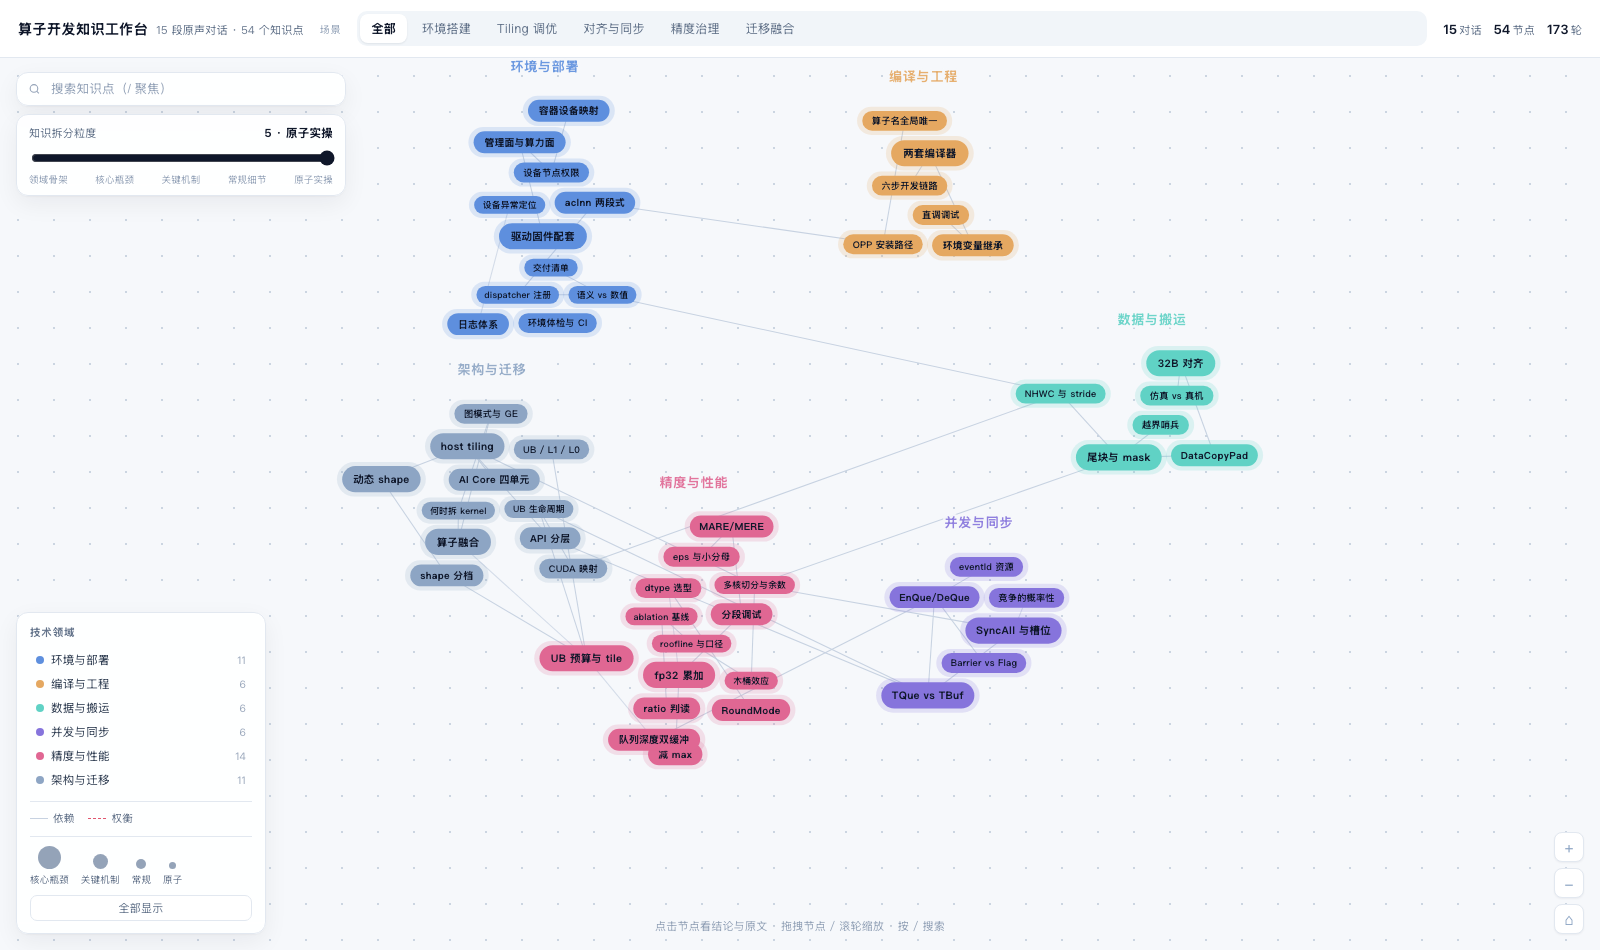
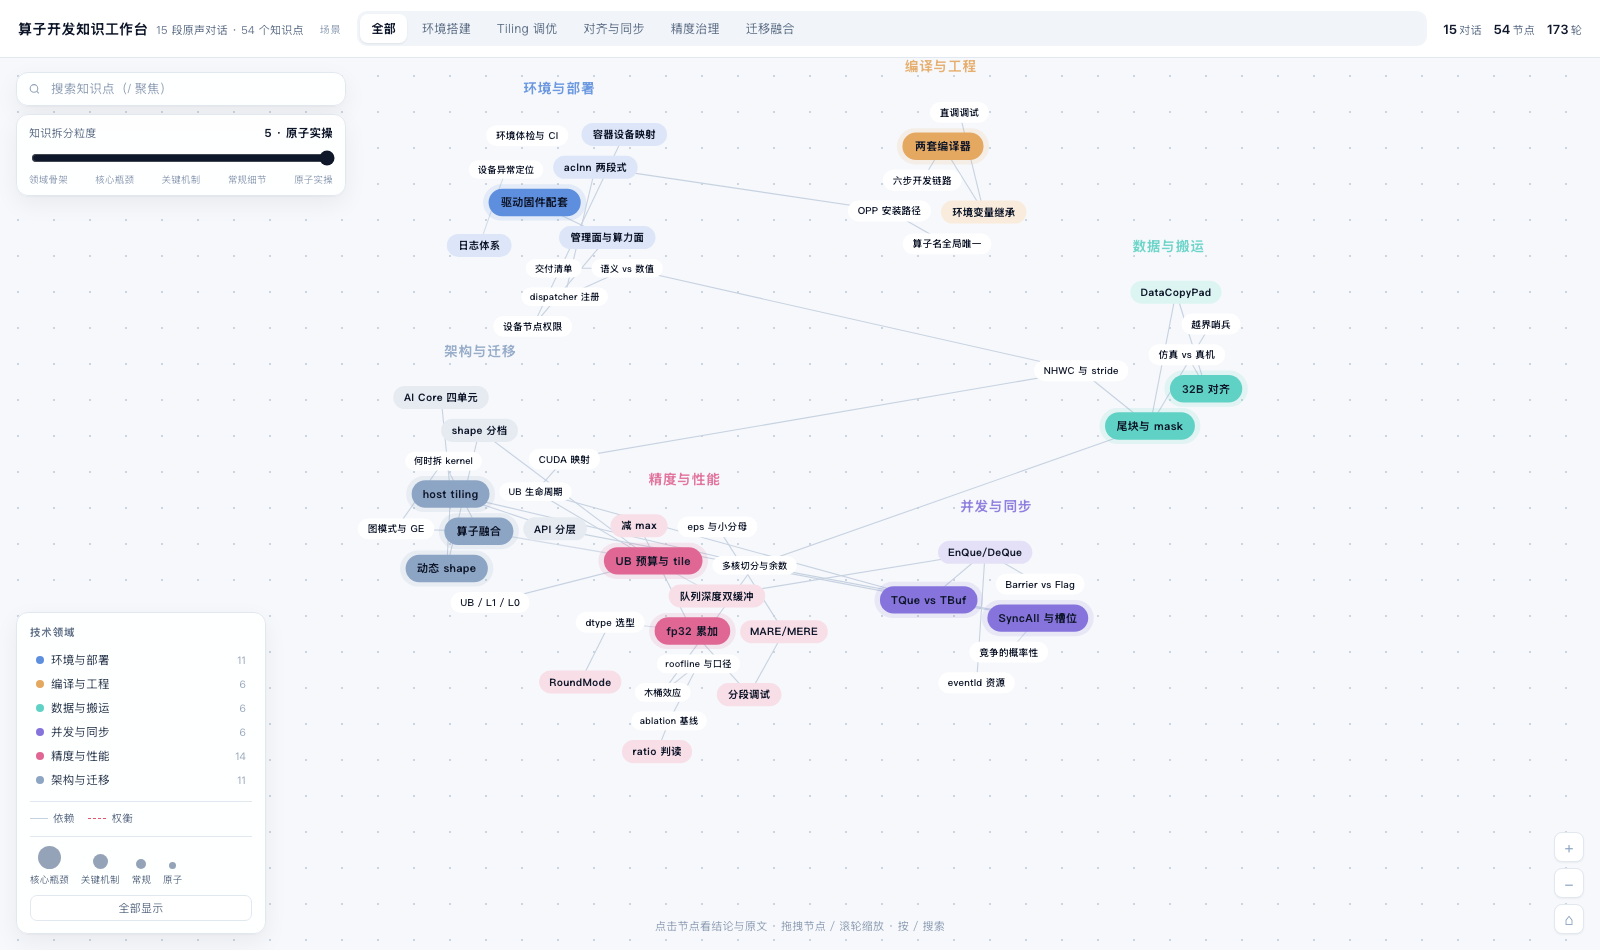
style: 胶囊按权重分填充档（实色/半透明/白底彩边/灰边）

diff --git a/cann-dashboard/算子知识工作台.html b/cann-dashboard/算子知识工作台.html
@@ -96,9 +96,9 @@
   .edge.agg{stroke-opacity:.75}
   .node{cursor:pointer}
   .cap{stroke:none}
-  .caphalo{opacity:.18;transition:opacity .18s}
-  .node:hover .caphalo,.node.sel .caphalo{opacity:.34}
-  .node.nb .caphalo{opacity:.26}
+  .caphalo{transition:opacity .18s}
+  .node:hover .caphalo,.node.sel .caphalo{opacity:.3 !important}
+  .node.nb .caphalo{opacity:.2 !important}
   .node text{fill:#0F172A;text-anchor:middle;pointer-events:none}
   .node:hover .cap{filter:brightness(1.04)}
   .lblbg{fill:#fff;stroke:#E2E8F0;stroke-width:1;rx:6;opacity:0;pointer-events:none;
@@ -532,10 +532,22 @@ function capSize(n){
   const c=CAP[n.w];
   return {w:Math.ceil(textW(n.name,c.fs)+c.pad*2),h:c.h,fs:c.fs,fw:c.fw};
 }
+function mixWhite(hex,t){
+  const r=parseInt(hex.slice(1,3),16),g=parseInt(hex.slice(3,5),16),b=parseInt(hex.slice(5,7),16);
+  const f=v=>Math.round(v+(255-v)*t);
+  return `rgb(${f(r)},${f(g)},${f(b)})`;
+}
+function capStyle(n){
+  const c=domById[n.dom].color;
+  if(n.w===3) return {fill:c,stroke:'none',sw:0,txt:'#0F172A',halo:.13};
+  if(n.w===2) return {fill:mixWhite(c,.78),stroke:c,sw:1,txt:'#1E293B',halo:0};
+  if(n.w===1) return {fill:'#FFFFFF',stroke:c,sw:1,txt:'#334155',halo:0};
+  return {fill:'#FFFFFF',stroke:'#DDE3EC',sw:1,txt:'#64748B',halo:0};
+}
 function buildNodes(){
   const g=$('#nodes');
   NODES.forEach(n=>{
-    const size=capSize(n);
+    const size=capSize(n), st=capStyle(n);
     n.__w=size.w; n.__h=size.h;
     const el=document.createElementNS(NS,'g');
     el.setAttribute('class','node'); el.dataset.id=n.id;
@@ -546,6 +558,7 @@ function buildNodes(){
     halo.setAttribute('width',size.w+10); halo.setAttribute('height',size.h+8);
     halo.setAttribute('rx',(size.h+8)/2);
     halo.setAttribute('fill',domById[n.dom].color);
+    halo.style.opacity=st.halo;
     el.appendChild(halo);
 
     const cap=document.createElementNS(NS,'rect');
@@ -553,13 +566,16 @@ function buildNodes(){
     cap.setAttribute('x',-size.w/2); cap.setAttribute('y',-size.h/2);
     cap.setAttribute('width',size.w); cap.setAttribute('height',size.h);
     cap.setAttribute('rx',size.h/2);
-    cap.setAttribute('fill',domById[n.dom].color);
+    cap.setAttribute('fill',st.fill);
+    cap.setAttribute('stroke',st.stroke);
+    cap.setAttribute('stroke-width',st.sw);
     el.appendChild(cap);
 
     const t=document.createElementNS(NS,'text');
     t.setAttribute('y',size.fs*0.36);
     t.setAttribute('font-size',size.fs);
     t.setAttribute('font-weight',size.fw);
+    t.setAttribute('fill',st.txt);
     t.textContent=n.name;
     el.appendChild(t);
 
